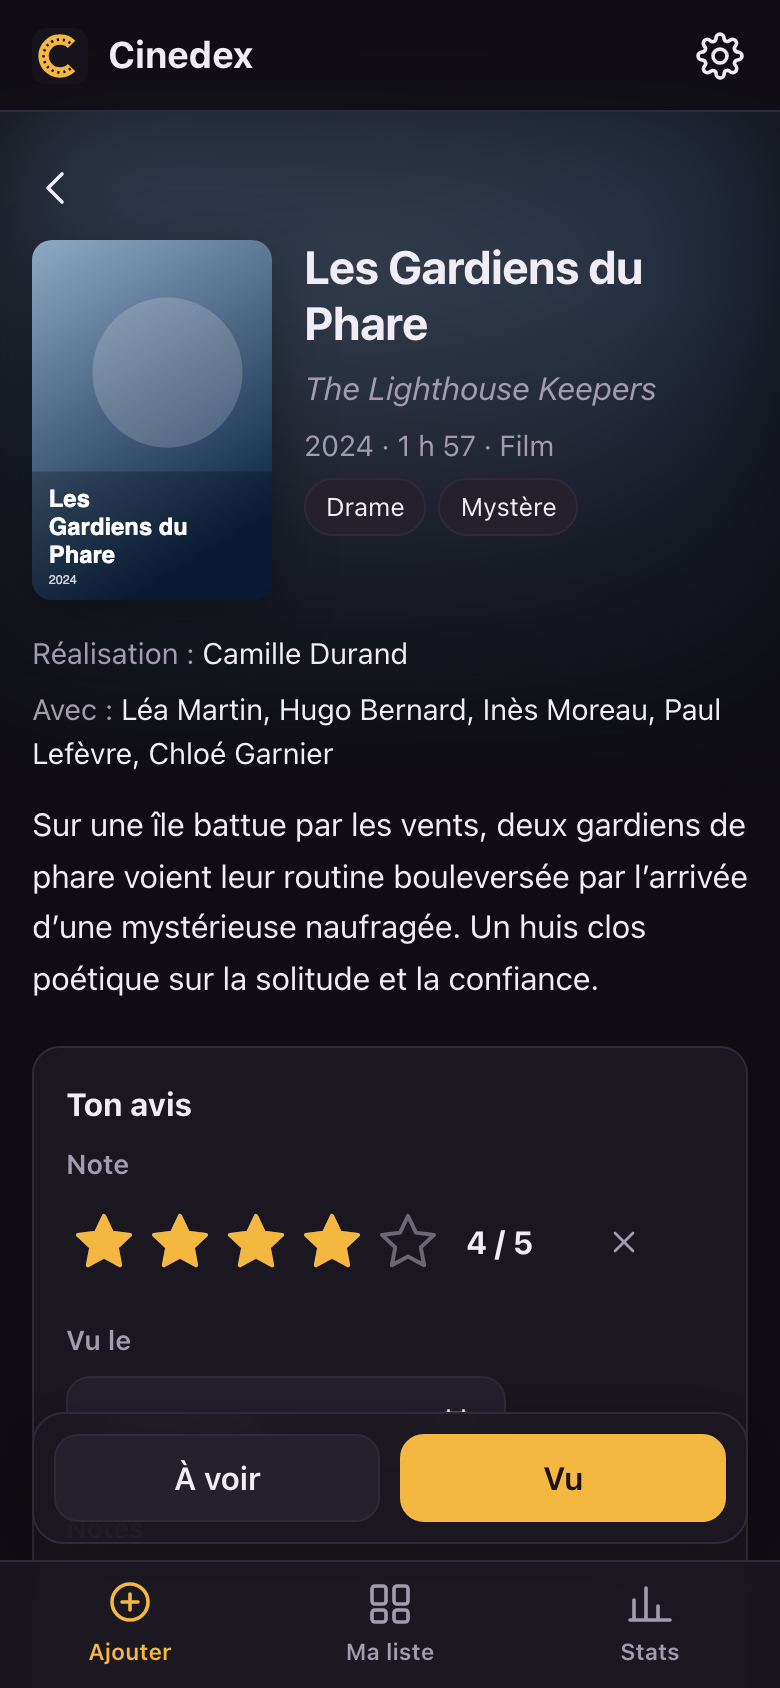
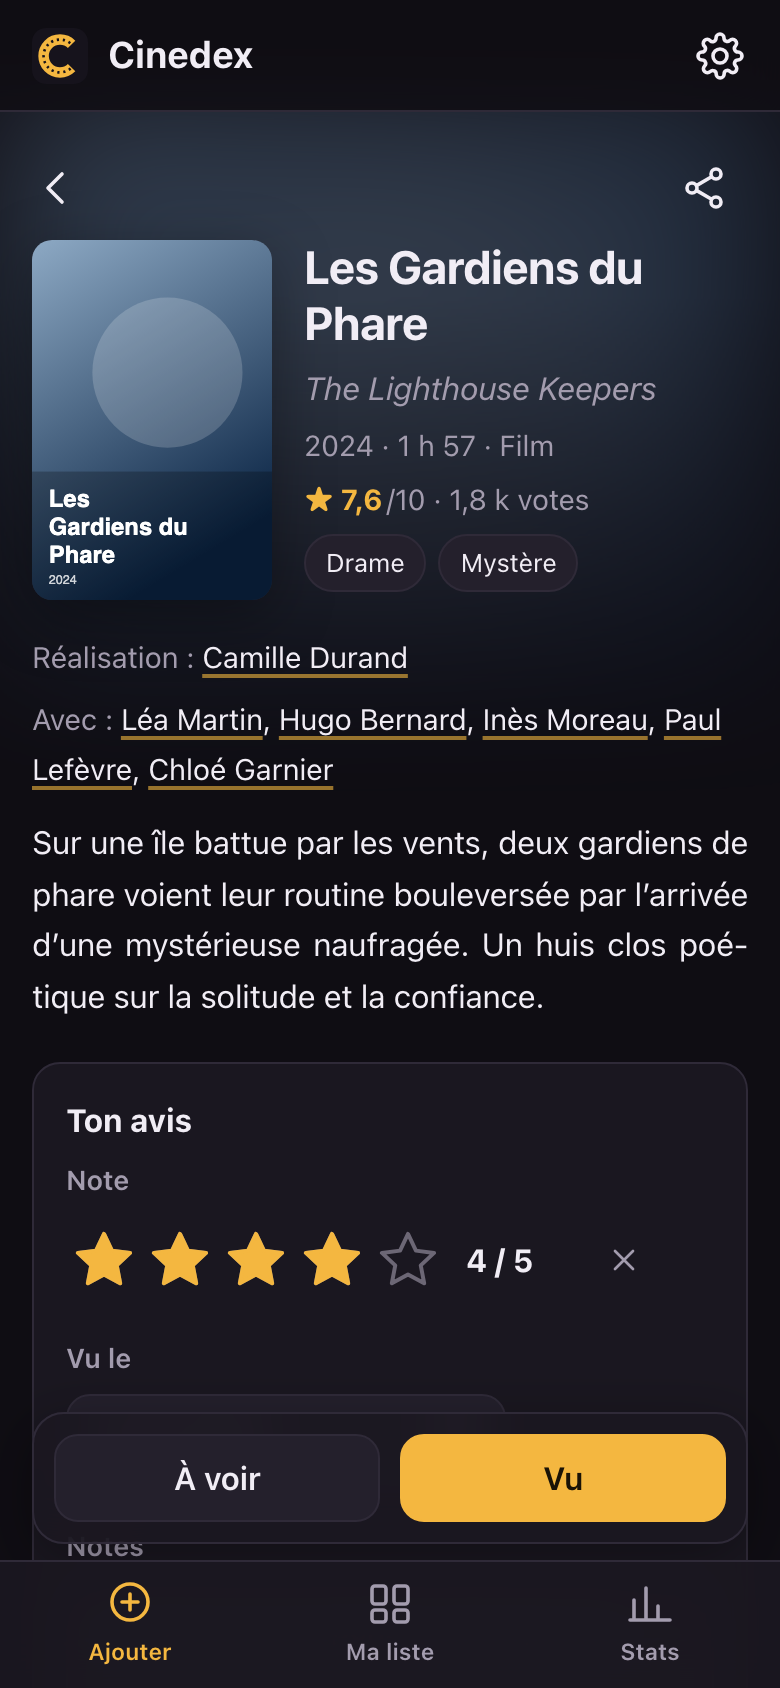
chore: release 1.1.0

diff --git a/sw.js b/sw.js
@@ -2,7 +2,7 @@
 // TMDB requests (api/image) are never cached here: posters live in IndexedDB.
 // Bump CACHE_VERSION (and APP_VERSION in js/version.js) whenever a shell file changes.
 
-const CACHE_VERSION = 'v1.0.0';
+const CACHE_VERSION = 'v1.1.0';
 const CACHE = `cinedex-shell-${CACHE_VERSION}`;
 
 const SHELL = [
@@ -17,6 +17,7 @@ const SHELL = [
   './js/db.js',
   './js/i18n.js',
   './js/items.js',
+  './js/nav.js',
   './js/posters.js',
   './js/settings.js',
   './js/share.js',
@@ -27,7 +28,7 @@ const SHELL = [
   './js/views/detail.js',
   './js/views/item.js',
   './js/views/list.js',
-  './js/views/reminder.js',
+  './js/views/person.js',
   './js/views/settings.js',
   './js/views/sheet.js',
   './js/views/stats.js',

diff --git a/js/version.js b/js/version.js
@@ -1,2 +1,2 @@
 // Bump together with CACHE_VERSION in sw.js on each release.
-export const APP_VERSION = '1.0.0';
+export const APP_VERSION = '1.1.0';

diff --git a/README.md b/README.md
@@ -18,20 +18,24 @@ A small, private, offline-first diary for the movies and TV shows you watch.
 ## Features
 
 - **Add**: search movies and TV shows as you type (TMDB `search/multi`), open a detail sheet
-  (poster, localized and original title, year, runtime or seasons, genres, director or creators,
-  main cast, synopsis with English fallback), then save it as **Watched** or **Watchlist**
+  (poster, localized and original title, year, runtime or seasons, TMDB community score, genres,
+  director or creators, main cast, synopsis with English fallback), then save it as **Watched** or **Watchlist**
   with a half-star rating, notes, free tags and a watch date. TV shows get a light progress
   tracker: status (watching / finished / dropped) and last season watched.
-- **My list**: poster grid or compact list, text search (local title, original title, notes),
+- **My list** (home screen): poster grid or compact list, text search (local title, original title, notes),
   sort (watch date, rating, title, release year) and filters (type, genre, tag, minimum rating).
-  Open an entry to edit it, log a rewatch or delete it.
-- **Stats & Watchlist**: your watchlist with a one-tap "watched" button; counts, hours of movies,
+  Open an entry to edit it (changes are saved automatically), log a rewatch or delete it.
+- **People**: tap a director, creator or actor to see their filmography. It comes from the person's
+  TMDB credits (by id), so a namesake title never shows up.
+- **Stats & Watchlist**: your watchlist as a checklist (tick a title once watched, with undo); counts, hours of movies,
   average rating, rating distribution, top genres, viewings per month and per year.
 - **Backup**: export to JSON (complete) or CSV (simplified), sent through the Android share sheet
   (Drive, Nextcloud, email…) when available; import a JSON export (merge).
-  A discreet reminder appears when the last export is more than 30 days old.
-- **Share to Cinedex** (Android, installed app): share a TMDB or IMDb link to Cinedex to open
-  its detail sheet directly.
+- **Share a title**: the share button on any sheet sends a link to that title. Recipients who use
+  Cinedex get the full sheet (in the installed app when their browser opens links in it); others
+  get a preview card with the poster and a link to TMDB.
+- **Share to Cinedex** (Android, app installed from Chrome): share a TMDB or IMDb link to Cinedex
+  to open its detail sheet directly.
 
 Posters are downloaded once (`w342`) when you add a title and stored in IndexedDB:
 browsing your list never hits the network.
@@ -133,8 +137,8 @@ Code map:
 | `js/app.js` | startup, hash router, service worker registration |
 | `js/db.js`, `js/items.js`, `js/posters.js` | IndexedDB, entries, poster Blobs |
 | `js/tmdb.js` | TMDB client (v3 key or v4 token) |
-| `js/backup.js`, `js/share.js` | export / import, share target |
-| `js/views/` | Add, detail sheet, My list, entry editor, Stats, Settings |
+| `js/backup.js`, `js/share.js` | export / import, title links and share target |
+| `js/views/` | Add, detail sheet, My list, entry editor, person page, Stats, Settings |
 | `sw.js` | offline app shell |
 
 ### Deploy your own copy
